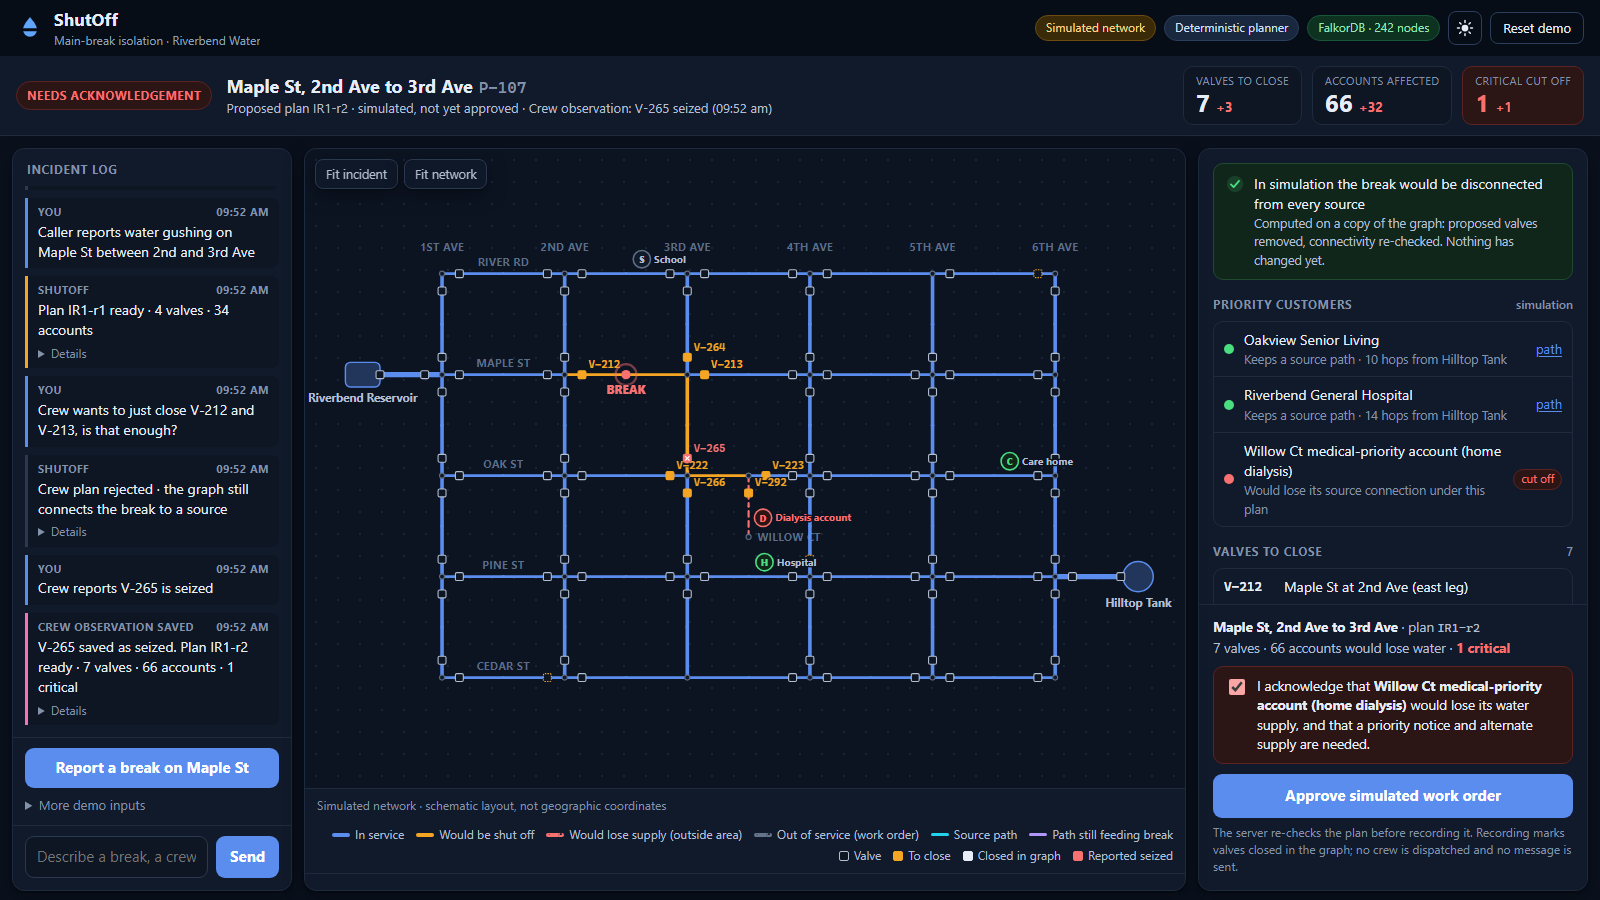
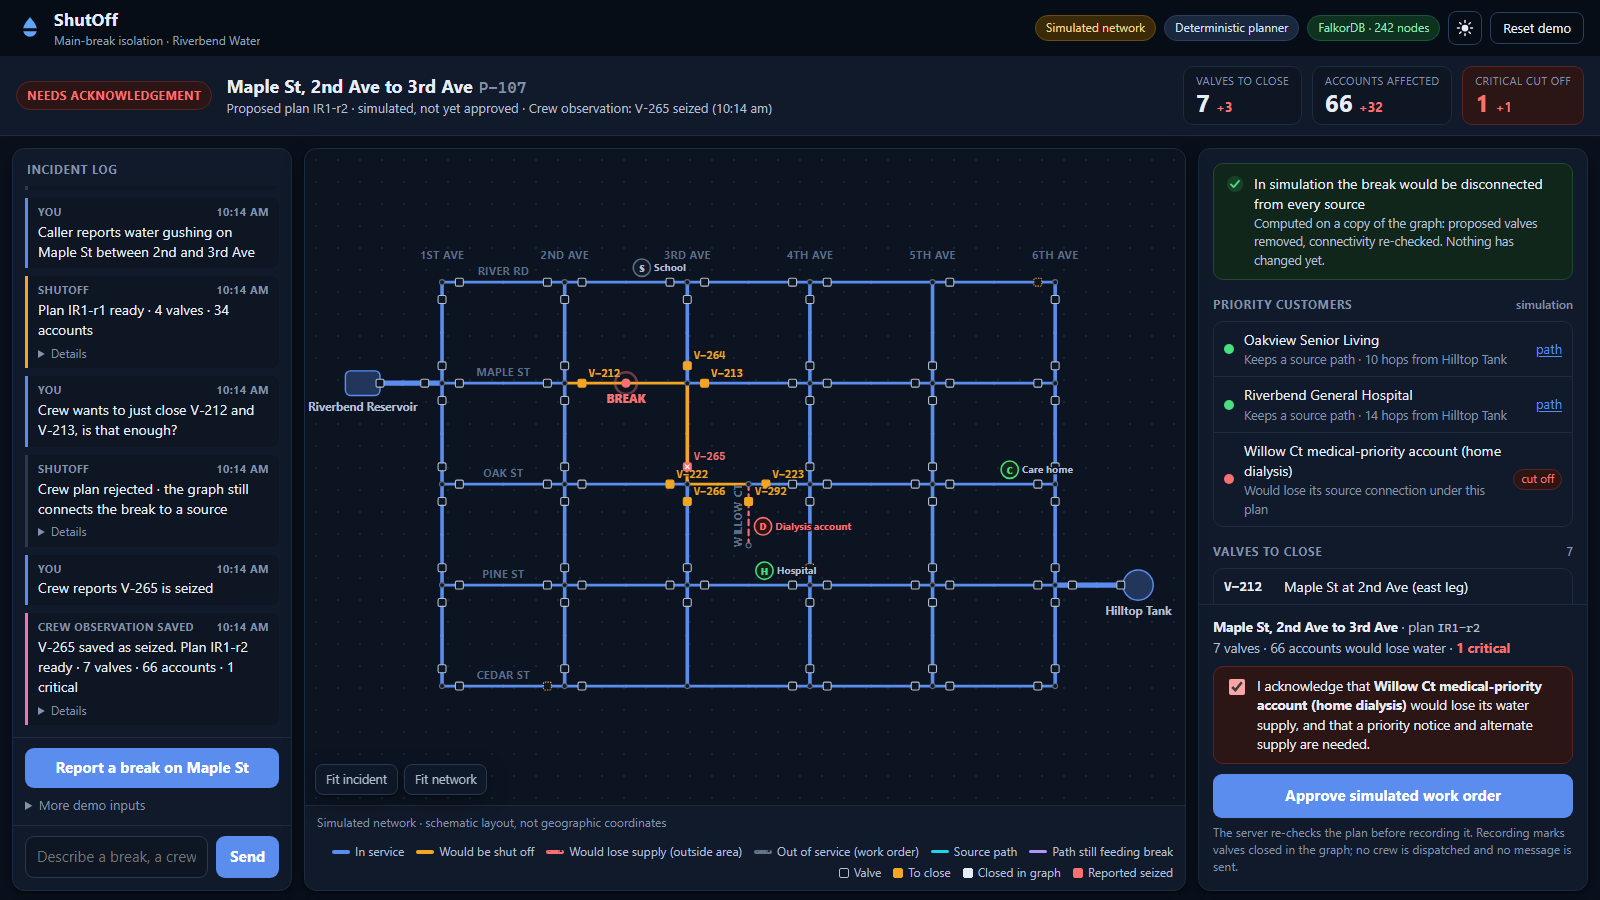
Final hardening: already-isolated breaks, cache-safe assets, accessibility, fresh demo
- A break already isolated by an active work order yields no approvable plan.
- Versioned static assets and no-cache index so browsers pick up new builds.
- Explicit accessible names for the acknowledgement and reset controls.
- Screenshots (light, dark, 1366, 390) and the demo video regenerated.
- 50 core + 3 optional benchmark tests pass; clean install verified.

diff --git a/web/app.js b/web/app.js
@@ -123,7 +123,7 @@ function applyResponse(r, text) {
           ov.critical = {};
           for (const c of res.simulation.critical_status) ov.critical[c.id] = c.supplied;
           S.inc = { ...S.inc, pipe: res.pipe.id, label: res.pipe.label,
-            state: res.outcome === "cannot_isolate" ? "cannot" : (res.simulation.critical_out.length ? "ack" : "ready") };
+            state: res.outcome === "cannot_isolate" ? "cannot" : !res.close.length ? "isolated" : (res.simulation.critical_out.length ? "ack" : "ready") };
         } else {
           S.plan = null; S.inc = { state: "locate", report: text, locate: res };
         }
@@ -234,7 +234,7 @@ function renderStrip() {
   const states = {
     idle: ["idle", "No incident"], locate: ["attention", "Location needed"], working: ["working", "Working"],
     ready: ["ready", "Simulation ready"], ack: ["ack", "Needs acknowledgement"], cannot: ["ack", "Cannot isolate"],
-    issued: ["issued", "Work order recorded"], restored: ["idle", "Service restored"],
+    issued: ["issued", "Work order recorded"], restored: ["idle", "Service restored"], isolated: ["issued", "Already isolated"],
   };
   const [ds, label] = states[inc.state] || states.idle;
   chip.dataset.state = ds; chip.textContent = label;
@@ -253,7 +253,7 @@ function renderStrip() {
     if (S.observation) bits.push(`Crew observation: ${S.observation.valve} ${S.observation.condition} (${S.observation.at})`);
     sub.textContent = bits.join(" · ");
   }
-  const show = S.plan && ["ready", "ack", "cannot", "issued"].includes(inc.state);
+  const show = S.plan && ["ready", "ack", "cannot", "issued", "isolated"].includes(inc.state);
   $("#kpis").hidden = !show;
   if (show) {
     const k = kpisOf(S.plan), p = S.prevKpis;
@@ -308,7 +308,10 @@ function renderMap() {
     if (n.id.endsWith("0")) el("text", { x: n.x + 85, y: n.y - 10, class: "street", "text-anchor": "middle" }, gStreets).textContent = street.toUpperCase();
     if (n.id[2] === "0") el("text", { x: n.x, y: n.y - 32, class: "street", "text-anchor": "middle" }, gStreets).textContent = ave.toUpperCase();
   }
-  if (by["J-WE"]) el("text", { x: by["J-WE"].x, y: by["J-WE"].y + 24, class: "street", "text-anchor": "middle" }, gStreets).textContent = "WILLOW CT";
+  if (by["J-WE"] && by["J-WT"]) {  // label runs along the cul-de-sac, clear of the other markers
+    const x = by["J-WE"].x - 9, y = (by["J-WE"].y + by["J-WT"].y) / 2;
+    el("text", { x, y, class: "street", "text-anchor": "middle", transform: `rotate(-90 ${x} ${y})` }, gStreets).textContent = "WILLOW CT";
+  }
 
   for (const e of net.edges) {
     const a = by[e.a], b = by[e.b];
@@ -513,8 +516,10 @@ function planHtml() {
   const p = S.plan, sim = p.simulation, issued = S.inc.state === "issued" || S.inc.state === "restored";
   let h = "";
   const restored = S.inc.state === "restored";
+  const already = sim.isolated && !p.close.length && !issued;
   h += `<div class="sec">${!sim.isolated
     ? verdict("bad", "No combination of operable valves isolates this break", "Field crews must find another isolation point.")
+    : already ? verdict("info", "Already isolated by valves closed in the graph", "An active work order already disconnects this main. No new valves are needed.")
     : restored ? verdict("info", "Service restored", "The plan below is shown for reference only.")
     : issued ? verdict("good", "Approved plan, recorded in the graph", "The work order marked these valves closed. Dispatch and notices are simulated.")
     : verdict("good", "In simulation the break would be disconnected from every source", "Computed on a copy of the graph: proposed valves removed, connectivity re-checked. Nothing has changed yet.")}</div>`;
@@ -628,7 +633,7 @@ function renderDock() {
     h += msg;
     h += `<div class="dock-summary"><b>${esc(p.pipe.label)}</b> · plan <span class="mono">${esc(S.proposal.id)}</span><br>${p.close.length} valves · ${p.simulation.accounts_out} accounts would lose water` +
       (crit.length ? ` · <b style="color:var(--loss)">${crit.length} critical</b>` : " · no critical customer") + `</div>`;
-    if (crit.length) h += `<label class="ack"><input type="checkbox" id="ack"><span>I acknowledge that <b>${esc(crit.map((c) => c.name).join(", "))}</b> would lose its water supply, and that a priority notice and alternate supply are needed.</span></label>`;
+    if (crit.length) h += `<label class="ack"><input type="checkbox" id="ack" aria-label="Acknowledge the critical customer impact"><span>I acknowledge that <b>${esc(crit.map((c) => c.name).join(", "))}</b> would lose its water supply, and that a priority notice and alternate supply are needed.</span></label>`;
     h += `<button type="button" class="primary" id="approve" ${crit.length ? "disabled" : ""}>Approve simulated work order</button>`;
     if (S.dockMsg && S.dockMsg.stale) h += `<button type="button" class="secondary" id="replan">Re-plan with the current network</button>`;
     h += `<div class="dock-note">The server re-checks the plan before recording it. Recording marks valves closed in the graph; no crew is dispatched and no message is sent.</div>`;
@@ -641,6 +646,8 @@ function renderDock() {
   } else if (inc.state === "restored" && S.restored) {
     const r = S.restored;
     h += verdict("info", `${esc(r.work_order)} restored`, `Re-opened ${esc(r.reopened.join(", ") || "none")}` + (r.kept_closed.length ? `; kept ${esc(r.kept_closed.map((k) => k.valve).join(", "))} closed for another active break` : "") + ".");
+  } else if (inc.state === "isolated") {
+    h += verdict("info", "Nothing to approve", "This break is already isolated by an active work order.");
   } else if (inc.state === "cannot") {
     h += verdict("bad", "Nothing to approve", "The graph shows no isolation with operable valves.");
   } else if (msg) {

diff --git a/web/index.html b/web/index.html
@@ -4,7 +4,7 @@
   <meta charset="utf-8">
   <meta name="viewport" content="width=device-width, initial-scale=1">
   <title>ShutOff · Main Break Isolation</title>
-  <link rel="stylesheet" href="/static/style.css">
+  <link rel="stylesheet" href="/static/style.css?v=20261018c">
   <script>
     // Apply the saved or system theme before first paint.
     (function () {
@@ -32,7 +32,7 @@
         <svg viewBox="0 0 24 24" class="i-moon" aria-hidden="true"><path d="M20 14.5A8 8 0 0 1 9.5 4a8 8 0 1 0 10.5 10.5z" fill="currentColor"/></svg>
         <svg viewBox="0 0 24 24" class="i-sun" aria-hidden="true"><circle cx="12" cy="12" r="4.5" fill="currentColor"/><g stroke="currentColor" stroke-width="2" stroke-linecap="round"><path d="M12 2v2.5M12 19.5V22M2 12h2.5M19.5 12H22M4.9 4.9l1.8 1.8M17.3 17.3l1.8 1.8M4.9 19.1l1.8-1.8M17.3 6.7l1.8-1.8"/></g></svg>
       </button>
-      <button class="ghost-btn" id="reset-btn" type="button" title="Reload the synthetic network and clear field reports and work orders">Reset demo</button>
+      <button class="ghost-btn" id="reset-btn" type="button" aria-label="Reset demo" title="Reload the synthetic network and clear field reports and work orders">Reset demo</button>
     </div>
   </header>
 
@@ -120,6 +120,6 @@
     </aside>
   </main>
 
-  <script src="/static/app.js"></script>
+  <script src="/static/app.js?v=20261018c"></script>
 </body>
 </html>

diff --git a/web/style.css b/web/style.css
@@ -83,6 +83,7 @@
 }
 
 * { box-sizing: border-box; }
+[hidden] { display: none !important; }
 html, body { margin: 0; height: 100%; }
 body { background: var(--bg); color: var(--ink); font: 15px/1.45 var(--sans); }
 button, input { font: inherit; color: inherit; }

diff --git a/demo/record_demo.py b/demo/record_demo.py
@@ -1,11 +1,10 @@
-"""Record the demo video against the real running app.
+"""Record the demo video through the real UI, against the running app and FalkorDB.
 
     uvicorn shutoff.api:app --port 8000      # in another terminal
     python demo/record_demo.py               # writes demo/shutoff-demo.webm
 
-Every result on screen comes from the live app and FalkorDB. This script only
-types the messages and overlays caption text (the dark banner at the bottom),
-which is not part of the app.
+Every result on screen is real app output. This script only clicks, types and
+overlays caption text (the dark banner), which is not part of the app.
 """
 
 import shutil
@@ -25,9 +24,9 @@ CAPTION_JS = """
   if (!el) {
     el = document.createElement('div');
     el.id = '__cap';
-    el.style.cssText = 'position:fixed;left:50%;top:70px;transform:translateX(-50%);max-width:1100px;pointer-events:none;' +
-      'background:rgba(10,18,32,.92);color:#fff;font:600 21px/1.35 system-ui,Segoe UI,sans-serif;' +
-      'padding:12px 20px;border-radius:12px;z-index:99;box-shadow:0 8px 30px rgba(0,0,0,.35);text-align:center';
+    el.style.cssText = 'position:fixed;left:50%;bottom:120px;transform:translateX(-50%);max-width:820px;pointer-events:none;' +
+      'background:rgba(8,14,26,.92);color:#fff;font:600 20px/1.35 system-ui,Segoe UI,sans-serif;' +
+      'padding:11px 18px;border-radius:12px;z-index:99;box-shadow:0 8px 30px rgba(0,0,0,.35);text-align:center';
     document.body.appendChild(el);
   }
   el.style.display = text ? 'block' : 'none';
@@ -43,7 +42,7 @@ CARD_JS = """
   el.style.cssText = 'position:fixed;inset:0;z-index:100;display:flex;flex-direction:column;align-items:center;' +
     'justify-content:center;background:#0f1b2d;color:#e8eef7;font-family:system-ui,Segoe UI,sans-serif;text-align:center';
   el.innerHTML = '<div style="font:800 64px system-ui">' + title + '</div>' +
-    '<div style="font:500 26px/1.5 system-ui;color:#9fb0c8;margin-top:18px;max-width:1100px">' + sub + '</div>';
+    '<div style="font:500 25px/1.55 system-ui;color:#9fb0c8;margin-top:18px;max-width:1150px">' + sub + '</div>';
 }
 """
 
@@ -55,6 +54,7 @@ def main() -> None:
         browser = p.chromium.launch()
         ctx = browser.new_context(viewport={"width": W, "height": H}, record_video_dir=str(RAW),
                                   record_video_size={"width": W, "height": H})
+        ctx.add_init_script("try { localStorage.setItem('shutoff-theme', 'light'); } catch (e) {}")
         pg = ctx.new_page()
         pg.request.post(URL + "api/reset")
         pg.goto(URL)
@@ -64,78 +64,69 @@ def main() -> None:
         card = lambda t, s="": pg.evaluate(CARD_JS, [t, s])  # noqa: E731
         wait = pg.wait_for_timeout
 
-        def say(msg: str) -> None:
-            pg.click("#input")
-            pg.type("#input", msg, delay=22)
-            wait(300)
-            pg.click("#composer button")
-            pg.wait_for_function("!document.querySelector('.typing')", timeout=30000)
+        def idle() -> None:
+            pg.wait_for_function("document.querySelector('#progress').hidden", timeout=30000)
             wait(500)
 
-        card("ShutOff", "A water-main-break isolation agent built on FalkorDB<br>"
+        def say(msg: str) -> None:
+            pg.click("#input")
+            pg.type("#input", msg, delay=20)
+            wait(250)
+            pg.click("#composer button")
+            idle()
+
+        card("ShutOff", "Water-main-break isolation, decided on a FalkorDB graph<br>"
                         "Graph Hacks · Track 1: Agents That Act on Connected Data<br>"
-                        "<span style='color:#fcd58a'>All network data is synthetic</span>")
+                        "<span style='color:#fcd58a'>Simulated network · deterministic planner (no live model in this recording)</span>")
         wait(5000)
         card("")
-        cap("A dispatcher reports a main break. ShutOff turns it into graph queries on FalkorDB.")
+        cap("A dispatcher reports a broken main. ShutOff must isolate it without overlooking who is supplied through it.")
         wait(3500)
-
-        say("Caller reports water gushing on Maple St between 2nd and 3rd Ave")
-        cap("algo.WCC finds the isolation segment. Closing its 4 boundary valves is simulated on a GRAPH.COPY sandbox: break isolated, 34 accounts out.")
+        pg.click("#starter .primary")
+        idle()
+        cap("FalkorDB finds the area valves can wall off (algo.WCC) and simulates closing its 4 valves on a copy of the graph: 34 accounts, no critical customer.")
         wait(7000)
-        cap("It also warns: V-265 has not been exercised since 2011. If it fails, a home-dialysis account would be cut off.")
-        pg.locator("#plan").evaluate("el => el.scrollTo({top: 9999, behavior: 'smooth'})")
-        wait(7000)
-        pg.locator("#plan").evaluate("el => el.scrollTo({top: 0, behavior: 'smooth'})")
-        cap("Every tool call is evidence: the exact Cypher, parameters, rows and latency, including sandbox queries.")
-        pg.locator("#evidence").evaluate("el => el.scrollTo({top: 260, behavior: 'smooth'})")
-        wait(6000)
+        pg.click("#fit-incident")
+        cap("These are proposed effects. Nothing in the network has changed yet.")
+        wait(4000)
+        pg.click("#fit-network")
 
-        cap("The crew proposes closing only the two nearest valves. ShutOff checks that plan first.")
+        cap("The crew suggests closing only the two nearest valves. ShutOff checks it first.")
         say("Crew wants to just close V-212 and V-213, is that enough?")
-        cap("Rejected. algo.SPpaths shows the exact route water still takes from the reservoir to the break (purple).")
-        wait(7500)
+        cap("Rejected: algo.SPpaths shows the route by which the reservoir still reaches the break (purple).")
+        wait(6500)
 
-        say("Is the hospital still supplied?")
-        cap("Supply is proven with a path from Hilltop Tank, not asserted.")
-        wait(5000)
+        cap("Before anyone tries it: V-265 has not been exercised since 2011. What if it cannot close?")
+        pg.click('#plan .link-btn[data-cont="V-265"]')
+        wait(3000)
+        cap("Hypothetical preview: 7 valves, 66 accounts, and the home-dialysis account on Willow Ct cut off. Nothing is recorded.")
+        wait(6000)
+        pg.click('#plan .link-btn[data-cont="V-265"]')
 
-        cap("Field report: V-265 will not turn. It becomes :Seized in the graph, and every later plan routes around it.")
-        say("Crew: V-265 won't turn, it's seized")
-        cap("Re-planned in under a second: 7 valves, 66 accounts, and an unintended cut-off of Willow Ct, including the medical-priority account.")
-        wait(8500)
+        cap("Now the crew reports an observation. It is saved in the graph, and the plan is recomputed.")
+        say("Crew reports V-265 is seized")
+        cap("Plan IR1-r2: 7 valves (+3), 66 accounts (+32), 1 critical customer (+1), outside the shut-off area.")
+        wait(7000)
 
-        cap("The model cannot close valves. Cutting off a critical customer also needs an explicit acknowledgement, enforced by the server.")
-        pg.locator("#plan").evaluate("el => el.scrollTo({top: 9999, behavior: 'smooth'})")
-        wait(4500)
+        cap("The supervisor must name the critical customer before approving. The server checks it, and re-checks the plan.")
+        wait(3000)
         pg.check("#ack")
-        cap("Approval is bound to the impact shown: the server re-simulates and refuses if anything changed.")
-        wait(3500)
-        pg.click(".approve")
-        pg.wait_for_function("!document.querySelector('.typing')", timeout=30000)
-        cap("WO-1001 written to the graph: valves closed, priority notice recorded. Dispatch and notices are simulated.")
+        wait(1500)
+        pg.click("#approve")
+        idle()
+        cap("WO-1001 is recorded: valves marked closed in the graph, priority notice recorded. No crew is dispatched; no message is sent.")
         wait(7000)
 
-        cap("Unknown places are never guessed.")
-        say("Burst main on Elm St at 5th")
-        wait(3500)
-        say("Leak at Oak & 3rd")
-        cap("Ambiguous reports return the candidate mains from the graph.")
-        wait(4500)
-
-        cap("Prevention: simulate every valve being seized, and rank which ones to exercise first.")
-        say("Which valves should we exercise first?")
-        wait(7000)
-
-        cap("Restore re-opens valves only after a sandbox check that no other active break would be re-fed.")
-        pg.click("#wo-bar button")
-        pg.wait_for_function("!document.querySelector('.typing')", timeout=30000)
-        wait(3500)
+        cap("With WO-1001's closures in the graph, does the hospital still have a source path?")
+        say("Is the hospital still supplied?")
+        cap("Yes: 14 hops from Hilltop Tank. Willow Ct does not. This is connectivity, not a pressure guarantee.")
+        wait(6500)
         cap("")
-        card("ShutOff", "FalkorDB graph algorithms (WCC, SPpaths) + sandbox simulation via GRAPH.COPY<br>"
-                        "Fixed tools, no model-written Cypher · human-approved actions · MCP server · 40 tests<br>"
-                        "<span style='color:#fcd58a'>Synthetic data · dispatch and notices simulated</span>")
-        wait(5000)
+        card("ShutOff", "FalkorDB derives the plan (WCC), tests it on a graph copy (GRAPH.COPY), proves it with paths (SPpaths)<br>"
+                        "and records changes only after explicit human approval<br>"
+                        "<span style='color:#9fb0c8'>Segmentation cross-checked against EPA's WNTR on public EPANET networks</span><br>"
+                        "<span style='color:#fcd58a'>Synthetic network · connectivity only · dispatch and notices simulated</span>")
+        wait(6000)
         video = pg.video.path()
         ctx.close()
         browser.close()

diff --git a/shutoff/agent.py b/shutoff/agent.py
@@ -99,7 +99,12 @@ def _update_state(s: Session, name: str, args: dict, result: dict) -> None:
         s.last_plan = None
         s.active_pipe = result["pipe"] if result.get("outcome") == "found" else None
     if name == "plan_isolation":
-        if result.get("outcome") == "planned":
+        if result.get("outcome") == "planned" and not result["close"]:
+            # Already isolated by valves closed in the graph: nothing to approve.
+            s.active_pipe = result["pipe"]["id"]
+            s.proposal = None
+            s.last_plan = result
+        elif result.get("outcome") == "planned":
             s.active_pipe = result["pipe"]["id"]
             s.rev += 1
             sim = result["simulation"]
@@ -407,6 +412,9 @@ def summarize(tool: str, r: dict) -> str:
         sim = r["simulation"]
         pipe = r["pipe"]
         valves = ", ".join(v["id"] for v in r["close"])
+        if not r["close"] and sim["isolated"]:
+            return (f"Break on {pipe['label']} ({pipe['id']}) is already disconnected by valves closed in the graph "
+                    "(an active work order). No new valves are needed; nothing to approve.")
         parts = [f"Break on {pipe['label']} ({pipe['id']}). Proposed: close {valves}. In simulation "
                  f"{sim['accounts_out']} accounts would lose water"]
         if sim["unintended"]:

diff --git a/tests/test_graph.py b/tests/test_graph.py
@@ -550,3 +550,13 @@ def test_llm_mode_cannot_record_a_condition_from_a_question(fresh, monkeypatch):
     agent.SESSIONS.pop("llmq", None)
     agent.handle("llmq", "Is V-265 seized?")
     assert N.valve_info("V-265")["condition"] == "unknown"
+
+
+def test_break_already_isolated_by_an_active_work_order_has_nothing_to_approve(fresh):
+    N.issue_work_order("P-107", PLAN_A)
+    agent.SESSIONS.pop("again", None)
+    r = agent.handle("again", "Water gushing on Maple St between 2nd and 3rd Ave")
+    plan = next(s for s in r["steps"] if s["tool"] == "plan_isolation")["result"]
+    assert plan["close"] == [] and plan["simulation"]["isolated"] is True
+    assert r["proposal"] is None and "nothing to approve" in r["reply"]
+    assert agent.approve("again")["steps"] == []

diff --git a/shutoff/api.py b/shutoff/api.py
@@ -102,7 +102,8 @@ def reset() -> dict:
 
 @app.get("/")
 def index() -> FileResponse:
-    return FileResponse(WEB / "index.html")
+    # Always revalidate the page so a new build's asset versions are picked up.
+    return FileResponse(WEB / "index.html", headers={"Cache-Control": "no-cache"})
 
 
 app.mount("/static", StaticFiles(directory=WEB), name="static")

diff --git a/README.md b/README.md
@@ -244,7 +244,7 @@ Optional: add the WNTR cross-check tests (3 more):
 .venv/Scripts/python -m pip install -r requirements-benchmark.txt
 ```
 
-The core suite has 49 tests. Integration tests are skipped when FalkorDB is unreachable, so check that nothing is skipped except the optional benchmark module (which needs WNTR). They cover:
+The core suite has 50 tests. Integration tests are skipped when FalkorDB is unreachable, so check that nothing is skipped except the optional benchmark module (which needs WNTR). They cover:
 - the union-find cross-check;
 - the Plan A / Plan B / crew-plan numbers, and leak paths made of real pipe links;
 - copies never changing the live graph;
@@ -254,7 +254,7 @@ The core suite has 49 tests. Integration tests are skipped when FalkorDB is unre
 - the HTTP API and the MCP gating;
 - the model loop with a **mocked** client.
 
-## Demo (about 2 minutes)
+## Demo (video about 75 seconds)
 
 `demo/shutoff-demo.webm` is recorded by [`demo/record_demo.py`](demo/record_demo.py) with Playwright, through the real UI,
 against FalkorDB. Captions are overlays. To rehearse it yourself (click *Reset demo* first):

diff --git a/OWNER_BRIEFING.md b/OWNER_BRIEFING.md
@@ -77,7 +77,7 @@ Be precise about the dialysis account: ShutOff can't keep it supplied once V-265
 there is no other pipe to Willow Ct. What it does is *predict* the risk before the valve fails, flag
 it, force an explicit acknowledgement, and record a priority notice (simulated).
 
-## What the tests actually prove (49 core tests + 3 optional benchmark tests, all passing)
+## What the tests actually prove (50 core tests + 3 optional benchmark tests, all passing)
 
 - **The algorithm is right.** For every one of the 53 pipes, FalkorDB's WCC answer matches an independent Python calculation. On three public EPANET networks (up to 964 nodes), ShutOff's segment query gives exactly the same segments as the US EPA's WNTR toolkit, including with seized valves (`docs/BENCHMARK_WNTR.md`).
 - **The demo numbers are real.** Plan A is 4 valves and 34 accounts. Plan B is 7 valves, 66 accounts, with the dialysis account cut off. The crew's 2-valve plan fails, and every step of the leak path is a real pipe connection.

diff --git a/docs/SUBMISSION_CHECKLIST.md b/docs/SUBMISSION_CHECKLIST.md
@@ -20,7 +20,7 @@ Rules to double-check:
 
 Before you submit:
 
-- [ ] `docker compose up -d`, `python -m shutoff.seed`, `python -m pytest -q` (49 core tests; +3 if WNTR is installed) all pass on your machine, with no integration tests skipped
+- [ ] `docker compose up -d`, `python -m shutoff.seed`, `python -m pytest -q` (50 core tests; +3 if WNTR is installed) all pass on your machine, with no integration tests skipped
 - [ ] Run the demo once yourself in the browser (http://localhost:8000)
 - [ ] Watch the demo video end to end
 - [ ] Optional: blog post for the AirPods side prize (write it in your own words)

diff --git a/AUDIT.md b/AUDIT.md
@@ -162,5 +162,5 @@ Wording and claims were corrected in the UI, the replies and the docs: simulated
 pressure"; "valves to close" with no implied sequence; the Blast Radius comparison; observations persist. The UI was
 redesigned and the WNTR cross-check added. Full details are in [RESEARCH_AND_REDESIGN.md](RESEARCH_AND_REDESIGN.md).
 
-**Test evidence (18 Oct):** 49 core tests + 3 WNTR benchmark tests pass against FalkorDB, with 0 skipped in this
+**Test evidence (18 Oct):** 50 core tests + 3 WNTR benchmark tests pass against FalkorDB, with 0 skipped in this
 environment (WNTR installed).

diff --git a/REVIEW_HANDOFF.md b/REVIEW_HANDOFF.md
@@ -14,7 +14,7 @@ State of this baseline: 40/40 tests pass, the app starts, and the live Claude AP
 > - The UI was redesigned around the operator workflow.
 > - ShutOff's segment query was cross-checked against WNTR on public EPANET networks ([docs/BENCHMARK_WNTR.md](docs/BENCHMARK_WNTR.md)).
 >
-> Tests: 49 core + 3 optional benchmark tests. File list additions: `benchmarks/`, `tests/test_benchmark.py`,
+> Tests: 50 core + 3 optional benchmark tests. File list additions: `benchmarks/`, `tests/test_benchmark.py`,
 > `requirements-benchmark.txt`, `RESEARCH_AND_REDESIGN.md`.
 
 ---
